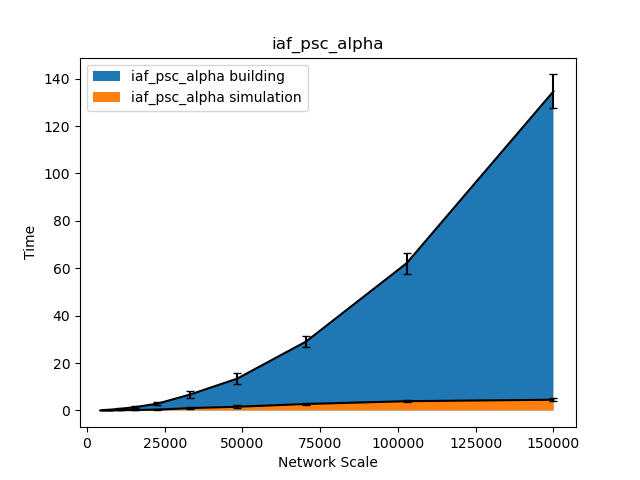
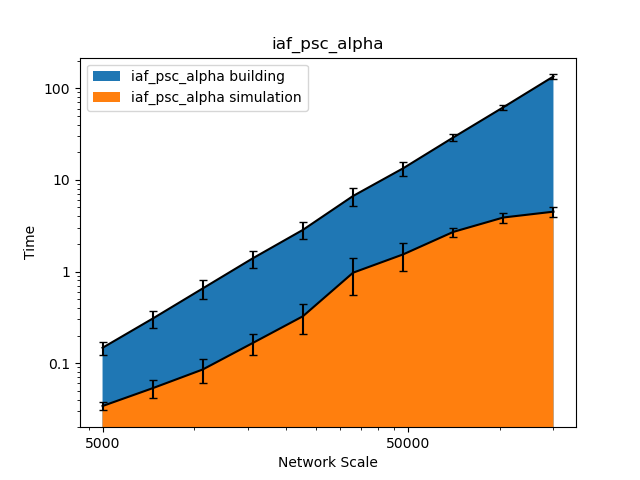
g

diff --git a/Running/target_optimized/iaf_psc_alpha_neuron_Nestml_Optimized.cpp b/Running/target_optimized/iaf_psc_alpha_neuron_Nestml_Optimized.cpp
@@ -335,6 +335,7 @@ void iaf_psc_alpha_neuron_Nestml_Optimized::update(nest::Time const &origin, con
       const double I_kernel_inh__X__inh_spikes__d__tmp = S_.I_kernel_inh__X__inh_spikes * V_.__P__I_kernel_inh__X__inh_spikes__d__I_kernel_inh__X__inh_spikes + S_.I_kernel_inh__X__inh_spikes__d * V_.__P__I_kernel_inh__X__inh_spikes__d__I_kernel_inh__X__inh_spikes__d;
       // analytic solver: integrating state variables (second step): V_m, I_kernel_exc__X__exc_spikes, I_kernel_exc__X__exc_spikes__d, I_kernel_inh__X__inh_spikes, I_kernel_inh__X__inh_spikes__d,
       /* replace analytically solvable variables with precisely integrated values  */
+
       // TODO: Why is this here they are set below again?
       S_.V_m = V_m__tmp;
       S_.I_kernel_exc__X__exc_spikes = I_kernel_exc__X__exc_spikes__tmp;

diff --git a/Running/benchmark.py b/Running/benchmark.py
@@ -26,7 +26,7 @@ NETWORKSCALES = np.logspace(3, math.log10(30000), 10, dtype=int)
 
 NEURONSPERSCALE = 5
 
-VERTICALTHREADS = np.power(2, np.arange(3, 6, 1, dtype=int))
+VERTICALTHREADS = np.power(2, np.arange(0, 6, 1, dtype=int))
 NUMTHREADS = VERTICALTHREADS[-1]
 VERTICALNEWORKSCALE = NETWORKSCALES[-1]
 ITERATIONS=10
@@ -123,6 +123,8 @@ def plot_timedist(data):
         plt.errorbar(x, simulation_times, yerr=simulation_std, fmt='k', capsize=3)  
         plt.xlabel('Network Scale')
         plt.ylabel('Time')
+        plt.xscale('log')
+        plt.yscale('log')
 
         formatter = FuncFormatter(lambda y, _: '{:.16g}'.format(y))
         plt.gca().yaxis.set_major_formatter(formatter)

diff --git a/Running/generate_nestml_model_code.py b/Running/generate_nestml_model_code.py
@@ -7,7 +7,7 @@ import os
 
 current_dir = os.path.dirname(os.path.abspath(__file__))
 input_path = os.path.join(current_dir, "../nestml/models/neurons/iaf_psc_alpha_neuron.nestml")
-generate_nest_target(input_path=input_path,
+generate_nest_target(input_path=[input_path,input_path],
                      module_name = "nestmlmodule",
                      suffix="_Nestml",
                         logging_level="DEBUG",
